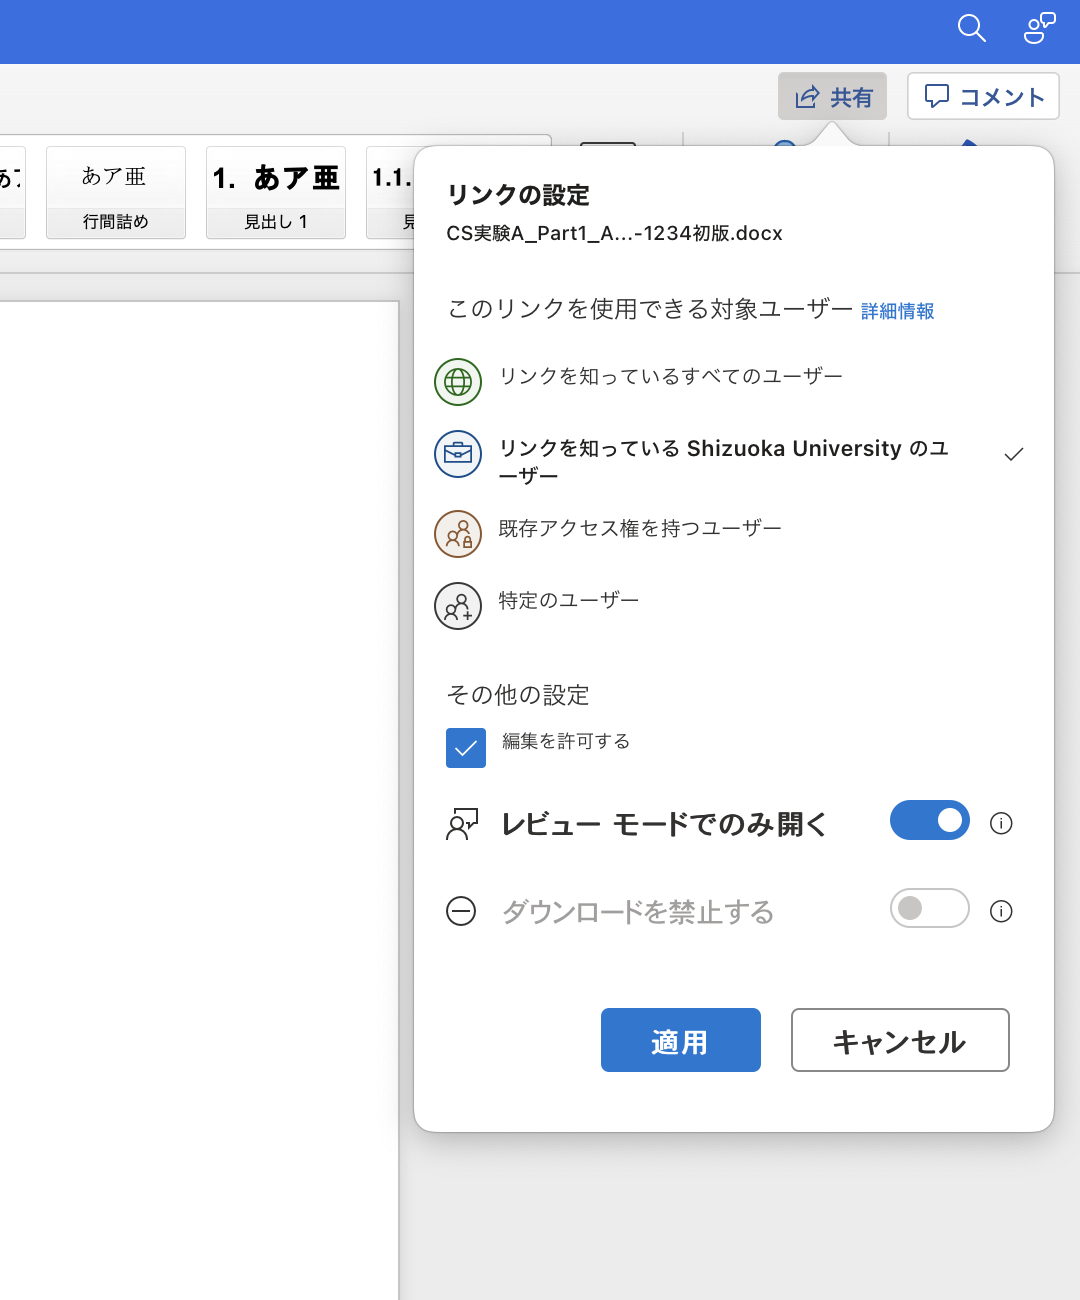
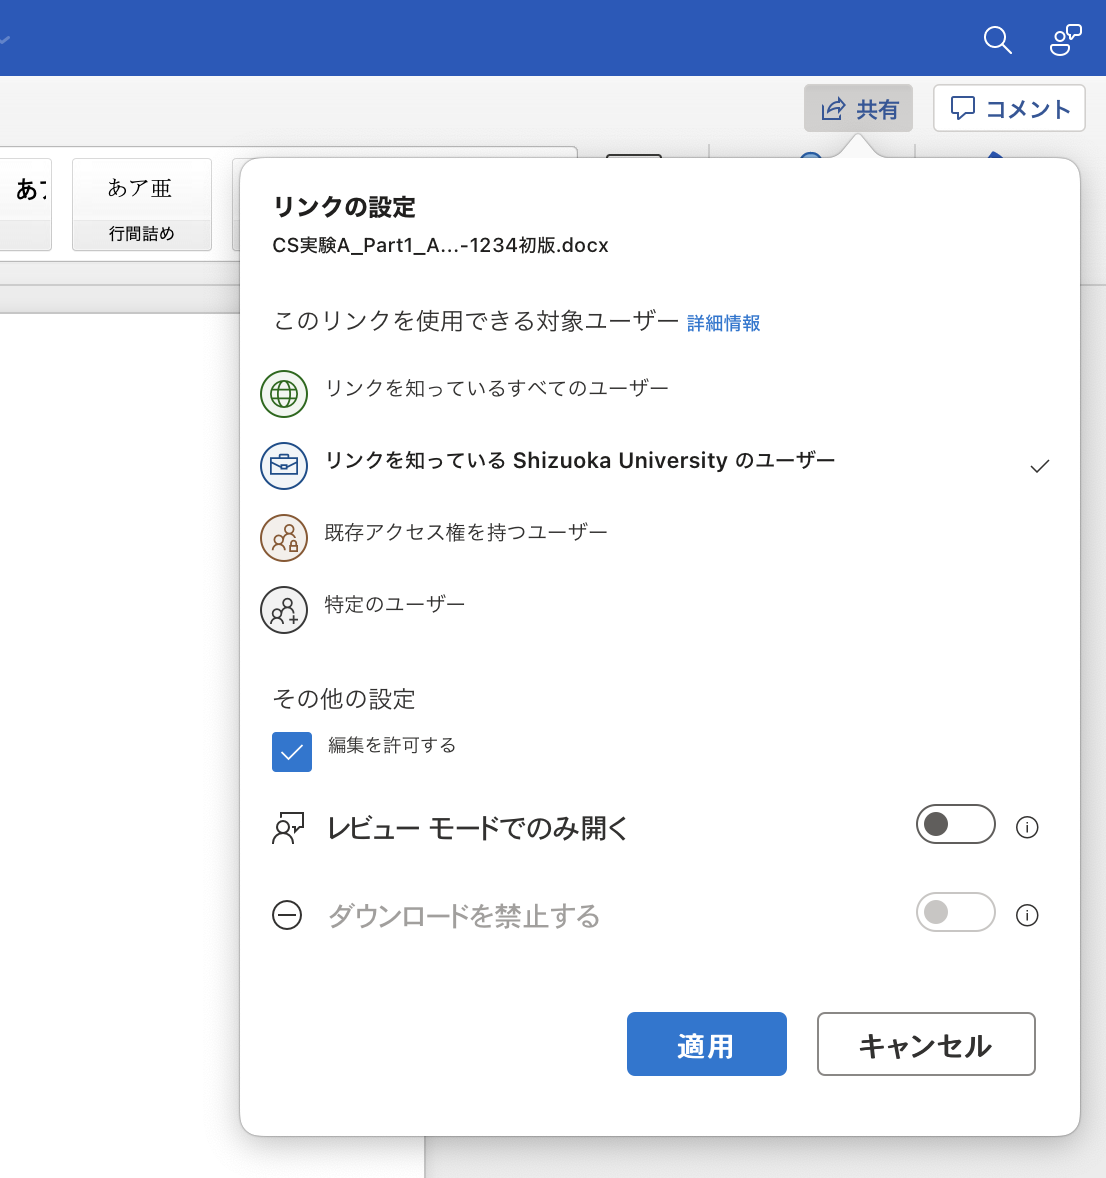
[fix]　Fixed image display bug and text in peer review.

diff --git a/books/content/report/peer_review.md b/books/content/report/peer_review.md
@@ -37,13 +37,13 @@
 
 3. もう一度「共有」をクリックし，「リンクのコピー」にある「リンクを知っているShizuoka Universityのユーザーが表示できます ＞」をクリックします．
 
-4. 「編集を許可する」にチェックをつけて，「レビューモードでのみ開く」をオンにして「適用」をクリックします．
+4. 「編集を許可する」にチェックをつけて，「適用」をクリックします．
 
 5. 「リンクをコピーしました」と出るので，Slackのグループチャンネルにリンクを貼り付けて送信します．
 
-<img src="../../_images/review_upload.png" width="48%"> &nbsp;&nbsp; <img src="../../_images/review_uploaded.png" width="48%">
+<img src="../../images/report/peer_review/review_upload.png" width="48%"> &nbsp;&nbsp; <img src="../../images/report/peer_review/review_uploaded.png" width="48%">
 
-<img src="../../_images/review_config.png" width="48%"> &nbsp;&nbsp; <img src="../../_images/review_link_copy.png" width="48%">
+<img src="../../images/report/peer_review/review_config.png" width="48%"> &nbsp;&nbsp; <img src="../../images/report/peer_review/review_link_copy.png" width="48%">
 
 他の人のレポートをレビューする際は以下の手順で行ってください．
 
